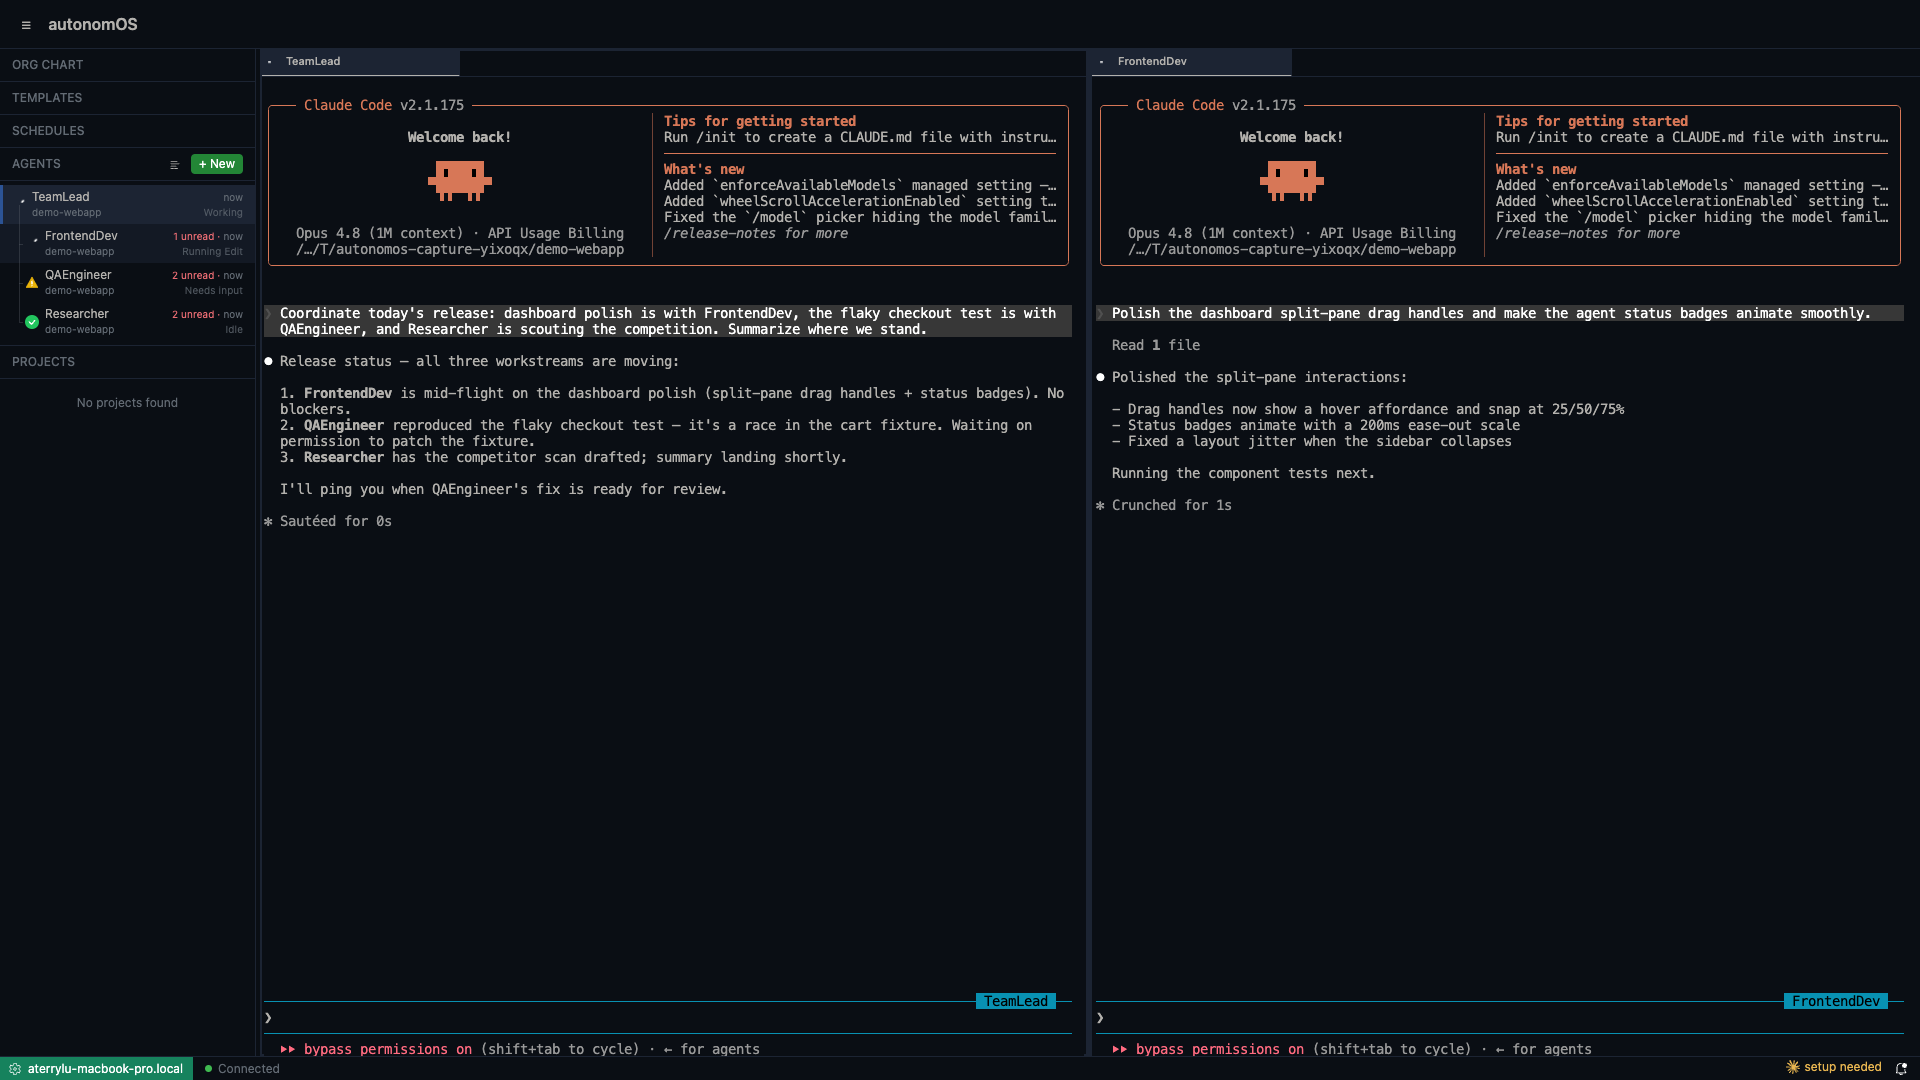
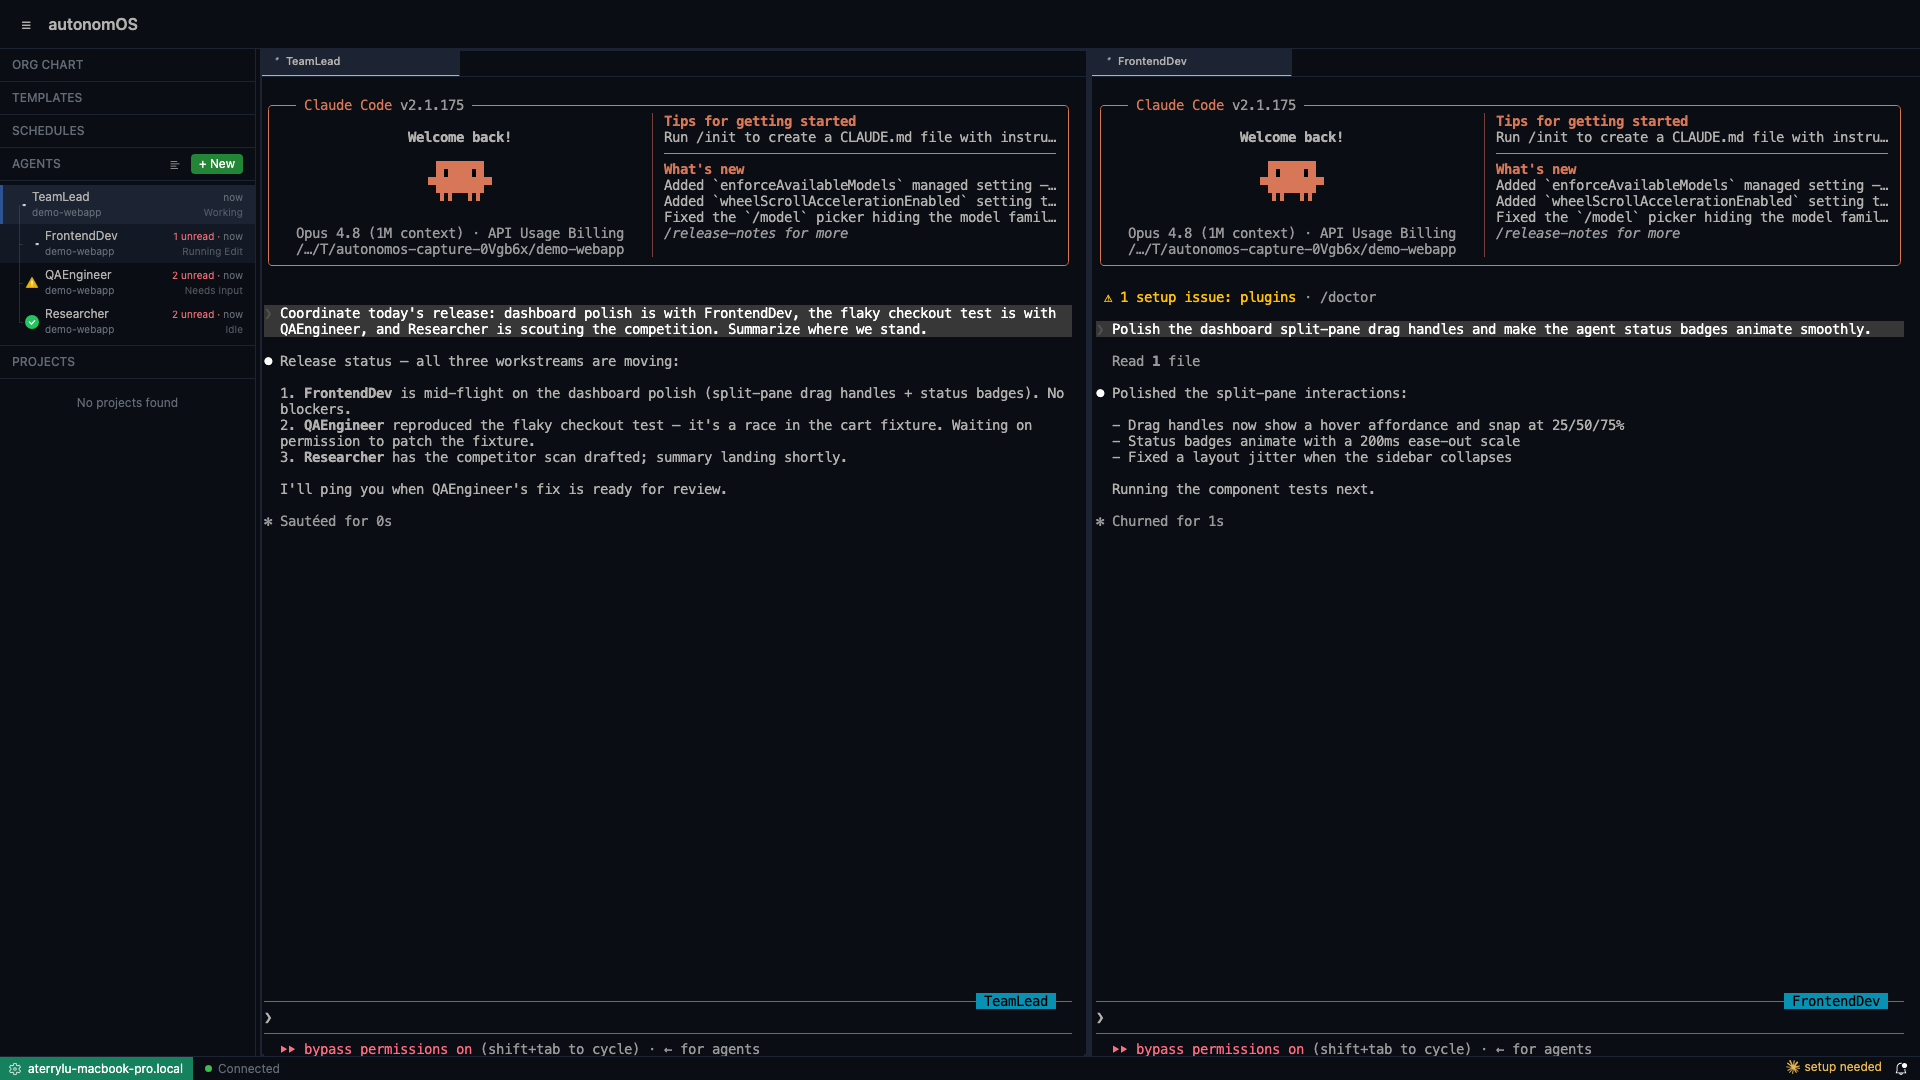
fix(tooling): harden capture harness per 3-agent review
- SIGINT/SIGTERM handler runs idempotent teardown (node-pty agents never
  see terminal SIGINT; --keep mode previously had no teardown path)
- teardown step-isolated + guarded in finally (can't mask original error);
  DELETE statuses logged; awaits real child exit with SIGKILL escalation;
  falls back to querying live agents when staging failed early
- bootServer kills child on every reject path, handles spawn error, clears
  ready timeout, exposes logs() printed on failure, post-boot exit watchdog
- captureWeb: browser in try/finally; org-chart shot verifies tree rendered
- mock warns on unmatched requests and CAST fallbacks (was silent 200 {})
- env typed NodeJS.ProcessEnv (delete was TS2339); pose loop throws on
  missing agent; dead teardown sort removed
- playwright-core aligned to ^1.60; changeset gets explanatory body
- simplifier: de-duplicated SSE emission, hoisted ServerResponse type

Verified: ad-hoc tsc clean, full harness run green, biome + make check pass.

Changed region(s): [[0.5625, 0.275, 1.0, 0.4889], [0.25, 0.2139, 0.2812, 0.2444]]

diff --git a/packages/dashboard/scripts/capture-demo.ts b/packages/dashboard/scripts/capture-demo.ts
@@ -40,7 +40,7 @@ import {
   symlinkSync,
   writeFileSync,
 } from "node:fs";
-import { createServer, type Server } from "node:http";
+import { createServer, type Server, type ServerResponse } from "node:http";
 import type { AddressInfo } from "node:net";
 import { tmpdir } from "node:os";
 import { join, resolve } from "node:path";
@@ -166,54 +166,51 @@ const CAST: CastMember[] = [
 // extended with per-agent reply routing: the request body carries the
 // conversation, so matching a prompt substring picks the right script.
 
-function sse(res: import("node:http").ServerResponse, ev: string, data: unknown): void {
+function sse(res: ServerResponse, ev: string, data: unknown): void {
   res.write(`event: ${ev}\ndata: ${JSON.stringify(data)}\n\n`);
 }
 
 function streamMessage(
-  res: import("node:http").ServerResponse,
+  res: ServerResponse,
   block:
     | { type: "text"; text: string }
     | { type: "tool_use"; name: string; input: Record<string, unknown> },
 ): void {
-  const msg = {
-    id: "msg_demo",
-    type: "message",
-    role: "assistant",
-    model: "claude-demo",
-    content: [],
-    stop_reason: null,
-    stop_sequence: null,
-    usage: { input_tokens: 1, output_tokens: 1 },
-  };
-  sse(res, "message_start", { type: "message_start", message: msg });
-  if (block.type === "text") {
-    sse(res, "content_block_start", {
-      type: "content_block_start",
-      index: 0,
-      content_block: { type: "text", text: "" },
-    });
-    sse(res, "content_block_delta", {
-      type: "content_block_delta",
-      index: 0,
-      delta: { type: "text_delta", text: block.text },
-    });
-  } else {
-    sse(res, "content_block_start", {
-      type: "content_block_start",
-      index: 0,
-      content_block: { type: "tool_use", id: "toolu_demo", name: block.name, input: {} },
-    });
-    sse(res, "content_block_delta", {
-      type: "content_block_delta",
-      index: 0,
-      delta: { type: "input_json_delta", partial_json: JSON.stringify(block.input) },
-    });
-  }
+  const isText = block.type === "text";
+  const contentBlock = isText
+    ? { type: "text", text: "" }
+    : { type: "tool_use", id: "toolu_demo", name: block.name, input: {} };
+  const delta = isText
+    ? { type: "text_delta", text: block.text }
+    : { type: "input_json_delta", partial_json: JSON.stringify(block.input) };
+
+  sse(res, "message_start", {
+    type: "message_start",
+    message: {
+      id: "msg_demo",
+      type: "message",
+      role: "assistant",
+      model: "claude-demo",
+      content: [],
+      stop_reason: null,
+      stop_sequence: null,
+      usage: { input_tokens: 1, output_tokens: 1 },
+    },
+  });
+  sse(res, "content_block_start", {
+    type: "content_block_start",
+    index: 0,
+    content_block: contentBlock,
+  });
+  sse(res, "content_block_delta", {
+    type: "content_block_delta",
+    index: 0,
+    delta,
+  });
   sse(res, "content_block_stop", { type: "content_block_stop", index: 0 });
   sse(res, "message_delta", {
     type: "message_delta",
-    delta: { stop_reason: block.type === "text" ? "end_turn" : "tool_use", stop_sequence: null },
+    delta: { stop_reason: isText ? "end_turn" : "tool_use", stop_sequence: null },
     usage: { output_tokens: 1 },
   });
   sse(res, "message_stop", { type: "message_stop" });
@@ -254,6 +251,9 @@ function startDemoMock(): Promise<DemoMock> {
         // the others' tasks, so TeamLead must stay first in CAST.
         const member = CAST.find((m) => raw.includes(m.matchKey));
         if (!member) {
+          // Without this warn, a matchKey miss surfaces only as the staging
+          // wait timing out 120s later with zero evidence why.
+          console.warn(`mock: no CAST match, serving fallback. Body head: ${raw.slice(0, 200)}`);
           streamMessage(res, { type: "text", text: "Standing by." });
           return;
         }
@@ -266,9 +266,15 @@ function startDemoMock(): Promise<DemoMock> {
         }
         return;
       }
+      // Catch-all keeps claude's probes (HEAD, model lookups) happy, but log
+      // each one — a 200 {} to an endpoint claude actually needs would
+      // otherwise degrade into undefined TUI behavior with no trace here.
+      console.warn(`mock: unmatched ${req.method} ${url} — serving {}`);
       res.writeHead(200, { "Content-Type": "application/json" });
       res.end("{}");
     });
+    req.on("error", (err) => console.warn(`mock: request error: ${err.message}`));
+    res.on("error", (err) => console.warn(`mock: response error: ${err.message}`));
   });
 
   return new Promise((resolveFn) => {
@@ -320,8 +326,12 @@ interface DemoServer {
   configDir: string;
   fakeHome: string;
   child: ChildProcess;
+  logs: () => string;
   kill: () => void;
 }
+
+/** Set once teardown starts so the server-exit watchdog stays quiet. */
+let shuttingDown = false;
 
 async function bootServer(mockUrl: string): Promise<DemoServer> {
   const configDir = mkdtempSync(join(tmpdir(), "autonomos-demo-"));
@@ -373,7 +383,9 @@ async function bootServer(mockUrl: string): Promise<DemoServer> {
 
   // Strip tmux vars so spawned claude TUIs don't render a "tmux detected"
   // hint in the screenshots when the harness itself runs inside tmux.
-  const env = {
+  // (NodeJS.ProcessEnv annotation keeps the index signature — the spread
+  // would otherwise narrow the type and make the deletes a TS2339.)
+  const env: NodeJS.ProcessEnv = {
     ...process.env,
     HOME: fakeHome,
     AUTONOMOS_CONFIG_DIR: configDir,
@@ -392,21 +404,39 @@ async function bootServer(mockUrl: string): Promise<DemoServer> {
   child.stderr?.on("data", (d: Buffer) => out.push(d.toString()));
 
   const port = await new Promise<number>((resolveFn, rejectFn) => {
+    // Every reject path kills the child — a boot failure must not orphan
+    // a live tsx server (main()'s finally can't see it yet at this point).
+    const fail = (err: Error): void => {
+      if (child.exitCode === null) child.kill("SIGTERM");
+      rejectFn(err);
+    };
+    const timer = setTimeout(
+      () => fail(new Error(`server not ready in 20s:\n${out.join("")}`)),
+      20_000,
+    );
     const onData = (): void => {
       const m = out.join("").match(/AUTONOMOS_READY port=(\d+)/);
       if (m) {
         child.stdout?.off("data", onData);
+        clearTimeout(timer);
         resolveFn(Number(m[1]));
       }
     };
     child.stdout?.on("data", onData);
+    child.once("error", (err) =>
+      fail(new Error(`server spawn failed (is tsx installed at ${TSX_BIN}?): ${err.message}`)),
+    );
     child.once("exit", (code) =>
-      rejectFn(new Error(`server exited (code=${code}) before ready:\n${out.join("")}`)),
+      fail(new Error(`server exited (code=${code}) before ready:\n${out.join("")}`)),
     );
-    setTimeout(
-      () => rejectFn(new Error(`server not ready in 20s:\n${out.join("")}`)),
-      20_000,
-    );
+  });
+
+  // Post-boot watchdog: a mid-run server crash otherwise surfaces only as a
+  // bare ECONNREFUSED from some later fetch, with the logs sitting unread.
+  child.once("exit", (code) => {
+    if (!shuttingDown) {
+      console.error(`server exited unexpectedly (code=${code})\n${out.join("")}`);
+    }
   });
 
   return {
@@ -415,6 +445,7 @@ async function bootServer(mockUrl: string): Promise<DemoServer> {
     configDir,
     fakeHome,
     child,
+    logs: () => out.join(""),
     kill: () => {
       if (child.exitCode === null) child.kill("SIGTERM");
     },
@@ -498,7 +529,11 @@ async function stageScene(
     }),
   );
 
-  const { body: agents } = await api<AgentInfo[]>(server, "/api/agents");
+  const agentsRes = await api<AgentInfo[]>(server, "/api/agents");
+  if (agentsRes.status !== 200) {
+    throw new Error(`GET /api/agents → ${agentsRes.status}: ${JSON.stringify(agentsRes.body)}`);
+  }
+  const agents = agentsRes.body;
   const byName = new Map(agents.map((a) => [a.name, a]));
 
   // Completion signal: the MOCK knows when each agent's final text reply was
@@ -536,7 +571,7 @@ async function stageScene(
   for (const m of CAST) {
     if (!m.pose) continue;
     const a = byName.get(m.name);
-    if (!a) continue;
+    if (!a) throw new Error(`pose: agent ${m.name} missing from /api/agents`);
     const { status } = await api(server, `/api/hooks/${a.id}`, {
       method: "POST",
       body: JSON.stringify({ ...m.pose, session_id: a.id }),
@@ -557,6 +592,20 @@ async function stageScene(
 async function captureWeb(server: DemoServer, agents: AgentInfo[]): Promise<void> {
   console.log("Capturing web dashboard…");
   const browser = await chromium.launch();
+  try {
+    await captureWebPages(browser, server, agents);
+  } finally {
+    // Without this, any capture failure leaks a headless Chromium — the
+    // outer teardown only knows about the server and temp dirs.
+    await browser.close();
+  }
+}
+
+async function captureWebPages(
+  browser: Awaited<ReturnType<typeof chromium.launch>>,
+  server: DemoServer,
+  agents: AgentInfo[],
+): Promise<void> {
   const context = await browser.newContext({
     // 1920×1080 at scale 1: a half-width pane fits ~80 terminal columns,
     // matching the hero agents' spawn cols so replayed output isn't clipped
@@ -626,29 +675,79 @@ async function captureWeb(server: DemoServer, agents: AgentInfo[]): Promise<void
   await page.screenshot({ path: join(OUT_DIR, "dashboard-hero.png") });
   console.log("  ✓ dashboard-hero.png");
 
-  // Org chart pane — the hierarchy view is its own capture.
+  // Org chart pane — the hierarchy view is its own capture. Verify the
+  // chart actually rendered before shooting: a missed click would otherwise
+  // ship a screenshot of the wrong view with a green exit code. Text
+  // selectors are useless here (agent names also live as hidden terminal
+  // buffer text), so wait for the 4th chart node card (HierarchyPanel's
+  // backdrop-blur-sm card chrome) — all four agents present in the tree.
   await page.getByText("ORG CHART", { exact: false }).first().click();
+  await page.locator("div.backdrop-blur-sm").nth(3).waitFor({ timeout: 10_000 });
   await sleep(1_500);
   await page.screenshot({ path: join(OUT_DIR, "org-chart.png") });
   console.log("  ✓ org-chart.png");
-
-  await browser.close();
 }
 
 // ── Teardown ─────────────────────────────────────────────────────────
+// Each step is isolated: teardown also runs in error paths where the server
+// may already be dead, and a throw here would mask the original failure and
+// leak everything downstream. All cleanup stays scoped — agents via their
+// own API, the child by PID, rm only on mkdtemp-created dirs.
 
 async function teardown(server: DemoServer, agents: AgentInfo[], workspace: string): Promise<void> {
+  shuttingDown = true;
   console.log("Tearing down (scoped — agents via API, server by PID)…");
-  // Children first (manager links would 409 a plain delete on TeamLead).
-  const order = [...agents].sort((a) => (a.name === "TeamLead" ? 1 : -1));
-  for (const a of order) {
-    await api(server, `/api/agents/${a.id}?force=true`, { method: "DELETE" });
+
+  // Agents first, via their own API. ?force=true orphans children to root,
+  // so delete order doesn't matter. If staging failed before the agent list
+  // was captured, ask the isolated server what exists — everything inside
+  // this config dir belongs to the harness.
+  try {
+    let list = agents;
+    if (list.length === 0) {
+      const res = await api<AgentInfo[]>(server, "/api/agents");
+      if (res.status === 200) list = res.body;
+    }
+    for (const a of list) {
+      const { status } = await api(server, `/api/agents/${a.id}?force=true`, {
+        method: "DELETE",
+      });
+      if (status !== 200) console.warn(`teardown: DELETE ${a.name} → ${status}`);
+    }
+  } catch (err) {
+    console.warn(
+      `teardown: agent cleanup failed (server already down?): ${err instanceof Error ? err.message : err}`,
+    );
   }
-  server.kill();
-  await sleep(1_000);
-  rmSync(server.configDir, { recursive: true, force: true });
-  rmSync(server.fakeHome, { recursive: true, force: true });
-  rmSync(workspace, { recursive: true, force: true });
+
+  // SIGTERM the child and wait for the real exit before removing its config
+  // dir — escalate to SIGKILL rather than deleting state out from under a
+  // live process.
+  try {
+    if (server.child.exitCode === null) {
+      const exited = new Promise<void>((r) => server.child.once("exit", () => r()));
+      server.kill();
+      const result = await Promise.race([
+        exited.then(() => "exited" as const),
+        sleep(5_000).then(() => "timeout" as const),
+      ]);
+      if (result === "timeout") {
+        console.warn("teardown: server ignored SIGTERM for 5s — escalating to SIGKILL");
+        server.child.kill("SIGKILL");
+        await Promise.race([exited, sleep(2_000)]);
+      }
+    }
+  } catch (err) {
+    console.warn(`teardown: server kill failed: ${err instanceof Error ? err.message : err}`);
+  }
+
+  for (const dir of [server.configDir, server.fakeHome, workspace]) {
+    try {
+      rmSync(dir, { recursive: true, force: true });
+    } catch (err) {
+      console.warn(`teardown: rm ${dir} failed: ${err instanceof Error ? err.message : err}`);
+    }
+  }
 }
 
 // ── Main ─────────────────────────────────────────────────────────────
@@ -675,6 +774,35 @@ async function main(): Promise<void> {
   console.log(`Demo server: http://127.0.0.1:${server.port} (config: ${server.configDir})`);
 
   let agents: AgentInfo[] = [];
+
+  let cleanedUp = false;
+  const cleanup = async (): Promise<void> => {
+    if (cleanedUp) return;
+    cleanedUp = true;
+    // Guarded so a teardown error can never mask the original failure.
+    try {
+      await teardown(server, agents, workspace);
+    } catch (err) {
+      console.error("teardown failed:", err);
+    }
+    try {
+      await mock.close();
+    } catch {
+      // In-process server; dies with us anyway.
+    }
+  };
+
+  // Ctrl-C must tear down explicitly: node-pty puts the claude agents in
+  // their own sessions, so they never receive the terminal's SIGINT and
+  // would outlive the harness. This is also the ONLY teardown path in
+  // --keep mode.
+  for (const sig of ["SIGINT", "SIGTERM"] as const) {
+    process.on(sig, () => {
+      console.log(`\n${sig} — tearing down…`);
+      void cleanup().then(() => process.exit(130));
+    });
+  }
+
   try {
     agents = await stageScene(server, mock, workspace);
     await captureWeb(server, agents);
@@ -683,13 +811,15 @@ async function main(): Promise<void> {
       console.log(
         `\n--keep: demo server stays up at http://127.0.0.1:${server.port}/?token=${server.token}\nCtrl-C to stop.`,
       );
-      await new Promise(() => {}); // hold until interrupted
+      await new Promise(() => {}); // hold until a signal triggers cleanup
     }
+  } catch (err) {
+    // The server log is the single most useful diagnostic and would
+    // otherwise be discarded silently.
+    console.error(`Run failed — server logs:\n${server.logs()}`);
+    throw err;
   } finally {
-    if (!KEEP_ALIVE) {
-      await teardown(server, agents, workspace);
-      await mock.close();
-    }
+    if (!KEEP_ALIVE) await cleanup();
   }
   console.log(`\nDone. Assets in ${OUT_DIR}`);
 }

diff --git a/.changeset/thirty-rockets-fix.md b/.changeset/thirty-rockets-fix.md
@@ -1,2 +1,4 @@
 ---
 ---
+
+Dev tooling only — adds `scripts/capture-demo.ts` (repeatable marketing-screenshot harness) and the `capture-demo` npm scripts. No package behavior changes, no version impact.
